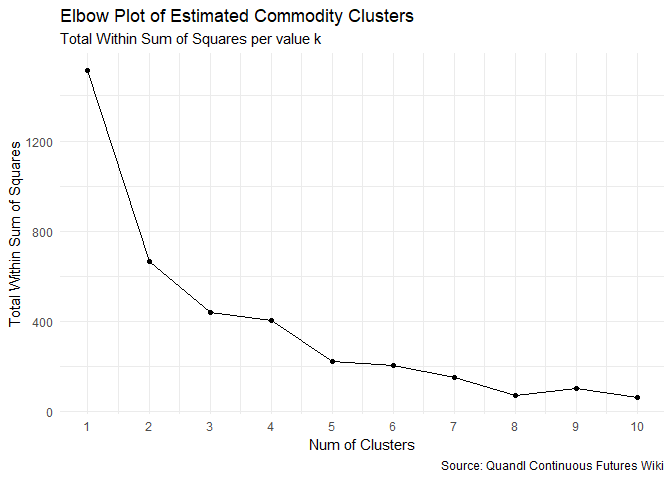
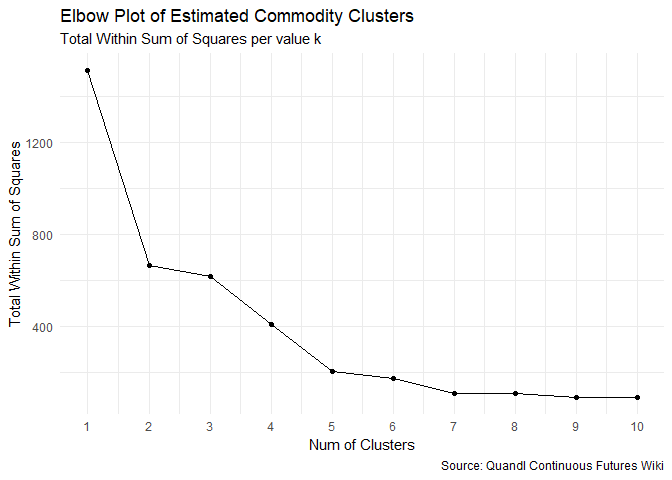
added an R Script

diff --git a/unsupervised-learning-with-commodity-prices.md b/unsupervised-learning-with-commodity-prices.md
@@ -33,6 +33,7 @@ clustered into reasonable sub-groups.
 ``` r
 library(cluster)
 library(dendextend)
+library(knitr)
 library(naniar)
 library(Quandl)
 library(tidyverse)
@@ -472,8 +473,8 @@ tot_withinss <- map_dbl(1:10, function(k) {
 tot_withinss
 ```
 
-    ##  [1] 1513.40364  664.96245  440.63910  406.82573  224.38924  207.80239
-    ##  [7]  154.14975   73.66879  105.59218   62.59426
+    ##  [1] 1513.40364  664.96245  618.47813  406.03538  205.34032  170.73660
+    ##  [7]  108.18159  108.66915   89.49532   88.94371
 
 ``` r
 # Create a data.frame containing both k and tot_withinss: elbow_df
@@ -562,15 +563,15 @@ clust_kmeans
 ```
 
     ##      Brent_Crude        WTI_Crude      Dubai_Crude   Canadian_Crude 
-    ##                1                1                4                4 
+    ##                4                4                2                1 
     ##          HHB_Gas          NBP_Gas    RBOB_Gasoline European_Naphtha 
-    ##                1                1                1                4 
+    ##                4                4                4                2 
     ##    GulfCoast_Jet     Singapore_FO       CME_Copper      SHFE_Copper 
-    ##                4                4                1                3 
+    ##                2                2                4                2 
     ##     TSI_Iron_Ore     SGX_Iron_Ore   Newcastle_Coal  Indonesian_Coal 
-    ##                4                4                1                3 
+    ##                1                1                4                4 
     ##    CME_Aluminium   SHFE_Aluminium 
-    ##                2                3
+    ##                3                4
 
 ``` r
 # Create a new column reflecting cluster assignments from clust_kmeans: clustered_com_km
@@ -590,27 +591,27 @@ head(tidy_com_km)
 ```
 
     ##        Commodity Cluster      Month      Price
-    ## 1    Brent_Crude       1 2016-01-29 -0.5344344
-    ## 2      WTI_Crude       1 2016-01-29 -0.5764919
-    ## 3    Dubai_Crude       4 2016-01-29 -3.3421457
-    ## 4 Canadian_Crude       4 2016-01-29 -2.1693519
-    ## 5        HHB_Gas       1 2016-01-29 -0.7903238
-    ## 6        NBP_Gas       1 2016-01-29 -0.1503629
+    ## 1    Brent_Crude       4 2016-01-29 -0.5344344
+    ## 2      WTI_Crude       4 2016-01-29 -0.5764919
+    ## 3    Dubai_Crude       2 2016-01-29 -3.3421457
+    ## 4 Canadian_Crude       1 2016-01-29 -2.1693519
+    ## 5        HHB_Gas       4 2016-01-29 -0.7903238
+    ## 6        NBP_Gas       4 2016-01-29 -0.1503629
 
 ``` r
 # View cluster assignments with K-Means Clustering
 sort(clust_kmeans)
 ```
 
-    ##      Brent_Crude        WTI_Crude          HHB_Gas          NBP_Gas 
-    ##                1                1                1                1 
-    ##    RBOB_Gasoline       CME_Copper   Newcastle_Coal    CME_Aluminium 
+    ##   Canadian_Crude     TSI_Iron_Ore     SGX_Iron_Ore      Dubai_Crude 
     ##                1                1                1                2 
-    ##      SHFE_Copper  Indonesian_Coal   SHFE_Aluminium      Dubai_Crude 
-    ##                3                3                3                4 
-    ##   Canadian_Crude European_Naphtha    GulfCoast_Jet     Singapore_FO 
+    ## European_Naphtha    GulfCoast_Jet     Singapore_FO      SHFE_Copper 
+    ##                2                2                2                2 
+    ##    CME_Aluminium      Brent_Crude        WTI_Crude          HHB_Gas 
+    ##                3                4                4                4 
+    ##          NBP_Gas    RBOB_Gasoline       CME_Copper   Newcastle_Coal 
     ##                4                4                4                4 
-    ##     TSI_Iron_Ore     SGX_Iron_Ore 
+    ##  Indonesian_Coal   SHFE_Aluminium 
     ##                4                4
 
 ``` r
